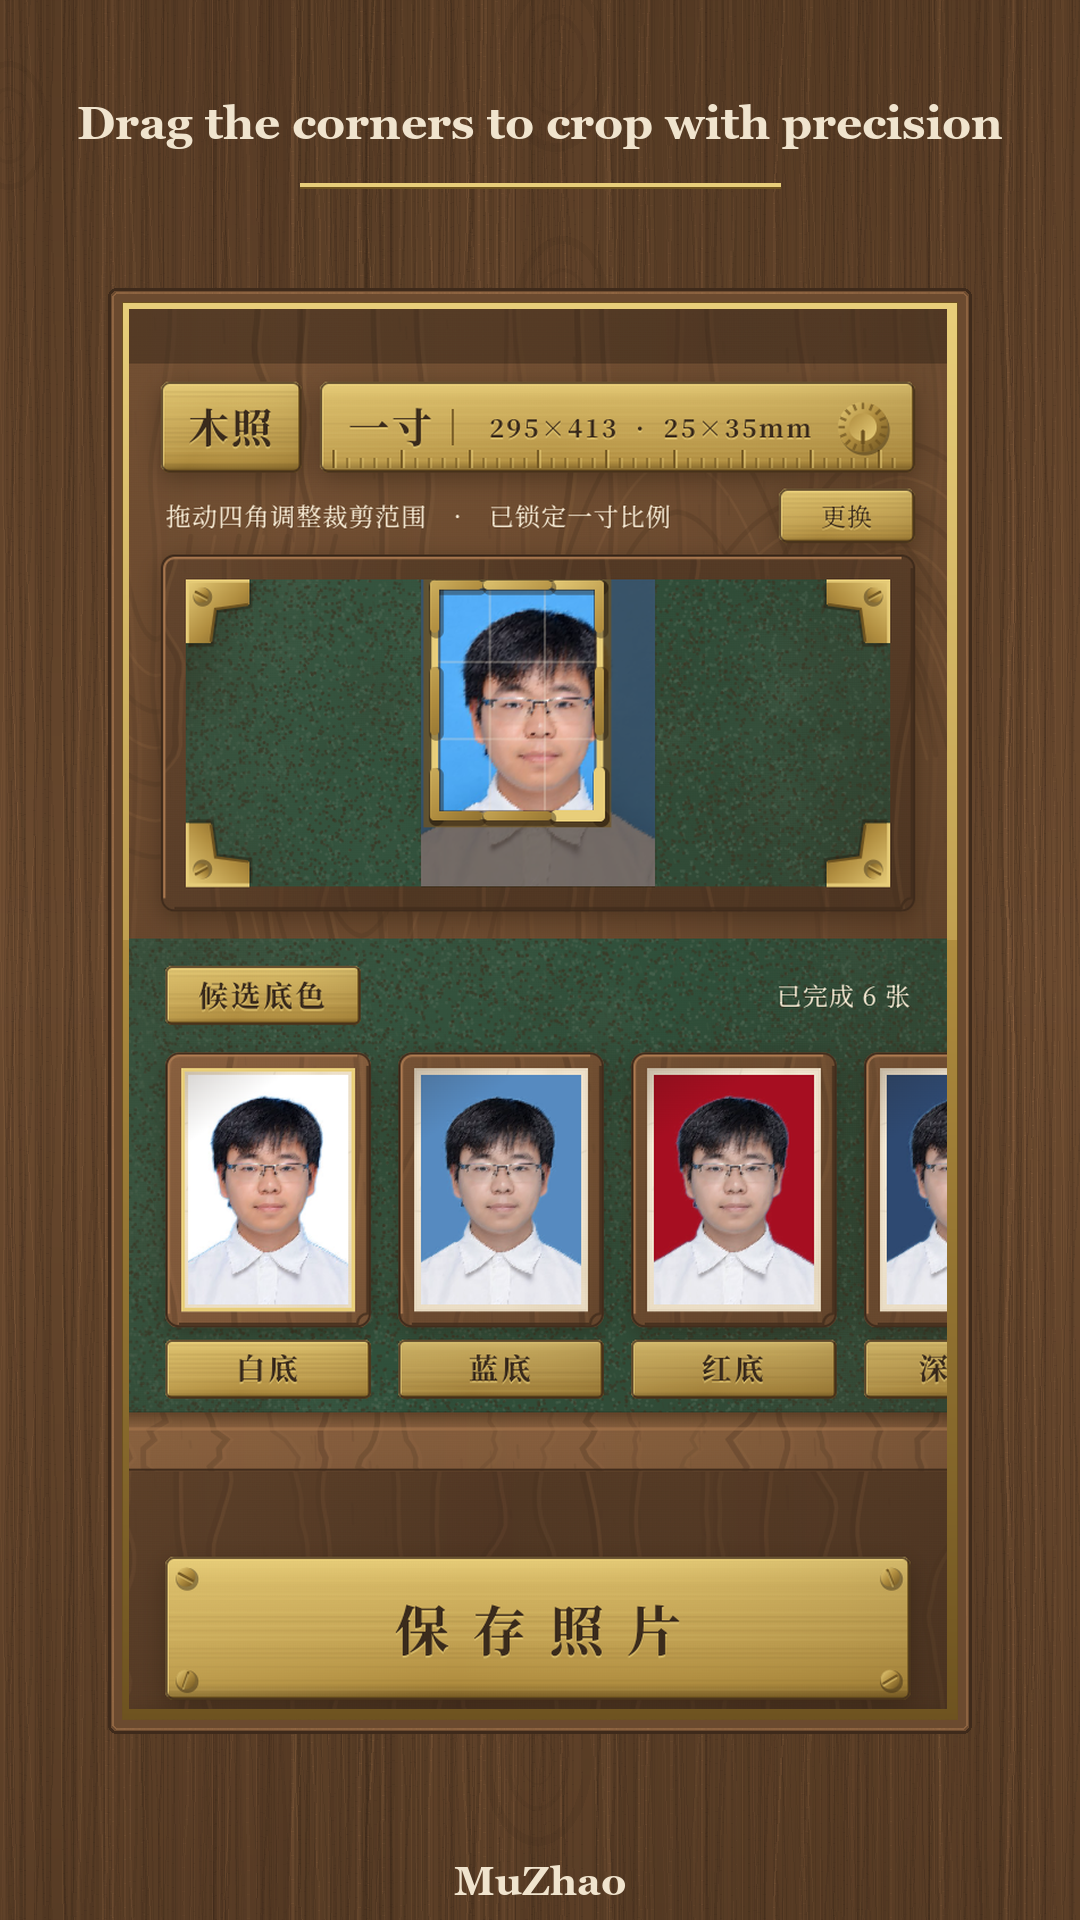
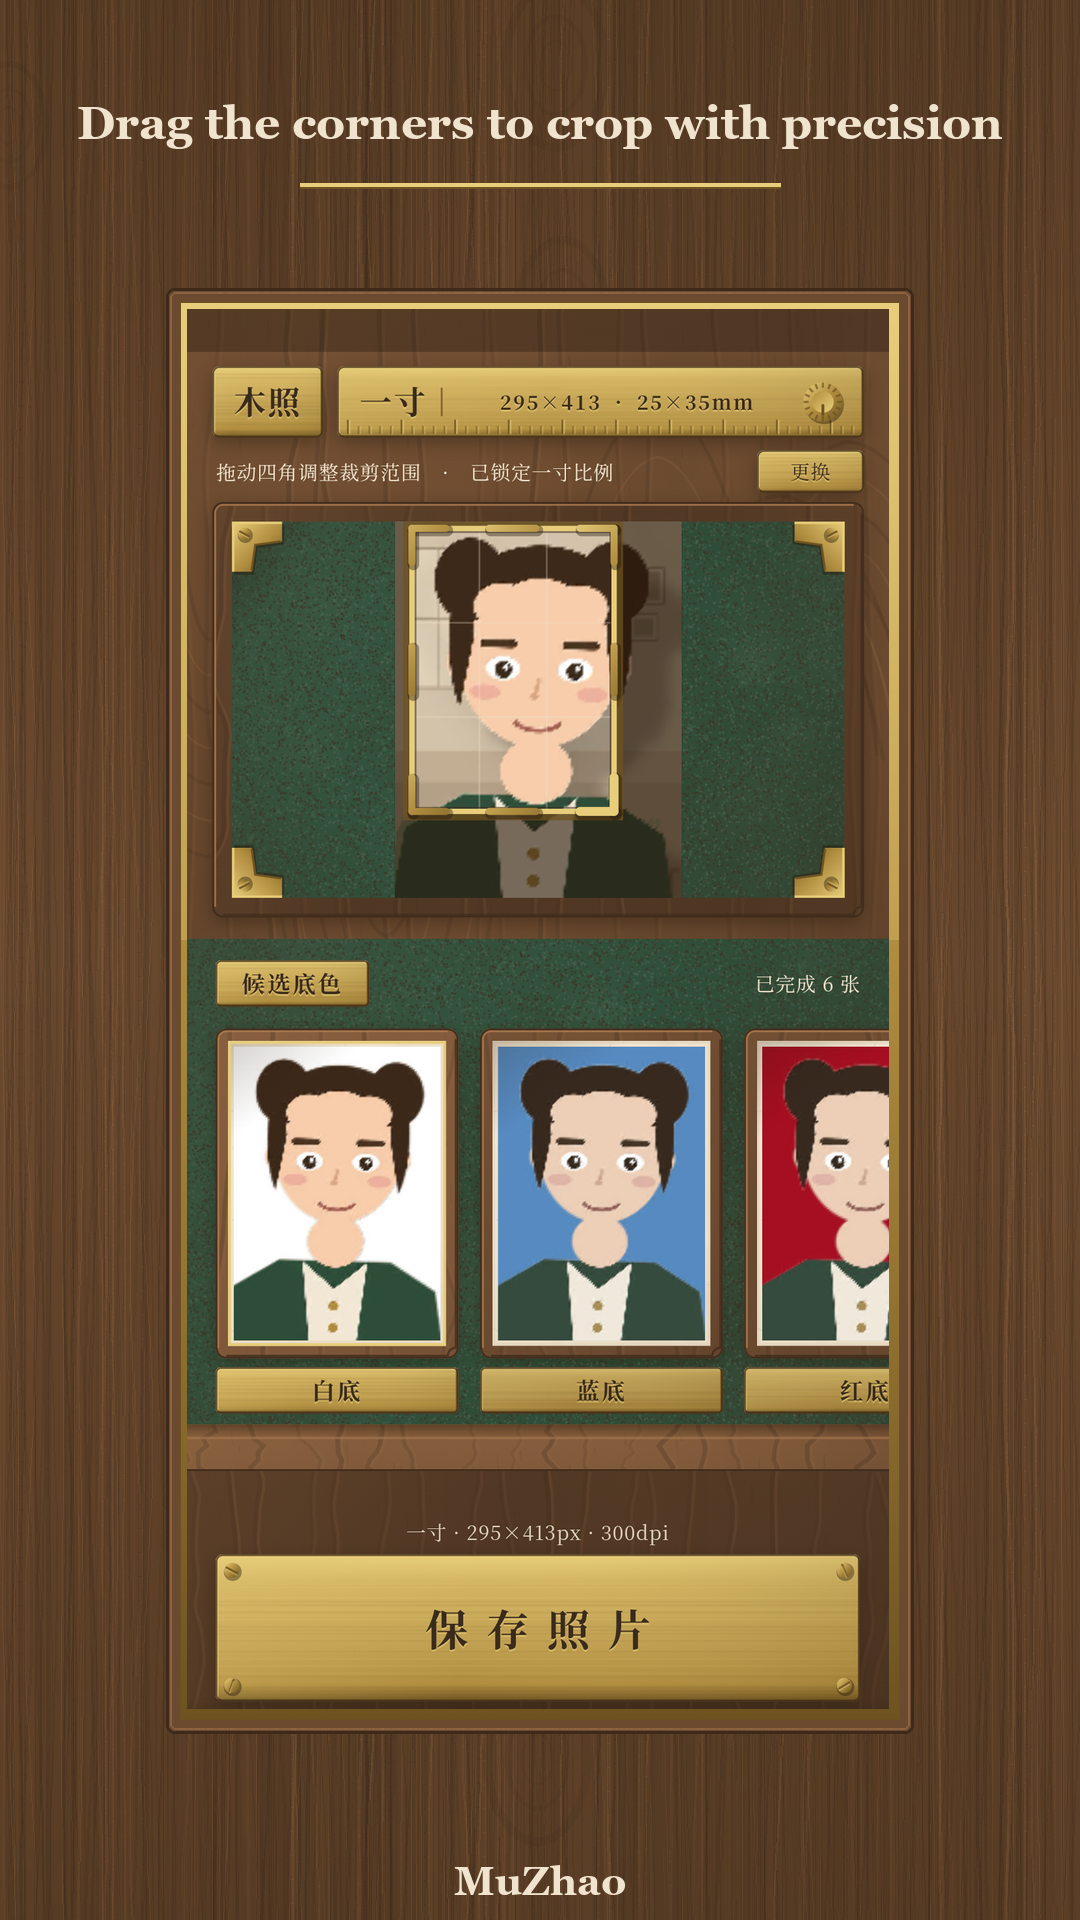
site+store: 公开素材全面换为吉祥物木木版（肖像权清零）
- store 宣传图 zh/en 12 张由新官方截图重生成（含木木）
- site 演示区 6 图重压 + 新增"效果示意"插画区块（demo_pair）
- README 内嵌图随 store/screenshots 重生成自动更新

Changed region(s): [[0.0917, 0.1562, 0.9167, 0.9062], [0.3667, 0.7812, 0.6417, 0.875]]

diff --git a/site/index.html b/site/index.html
@@ -168,6 +168,13 @@
       <button class="car-btn next" type="button" aria-label="下一张">&#8250;</button>
       <div class="car-dots" id="carDots" role="tablist" aria-label="幻灯片位置"></div>
     </div>
+    <div class="reveal" style="margin-top:56px;text-align:center">
+      <h3 style="font-size:1.15rem;color:var(--brass,#B08D3F);letter-spacing:.12em">效 果 示 意</h3>
+      <p class="sec-sub">从生活照到证件照成品——吉祥物"木木"为你演示（原创卡通形象）</p>
+      <img src="assets/demo_pair.jpg" alt="效果示意：生活照与证件照成品对比（原创卡通演示）"
+           loading="lazy"
+           style="max-width:min(860px,92%);border:1px solid rgba(176,141,63,.45);border-radius:6px;box-shadow:0 12px 40px rgba(36,22,9,.45)">
+    </div>
   </section>
 
   <!-- 下载 -->
